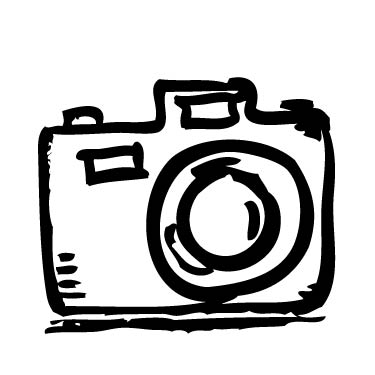
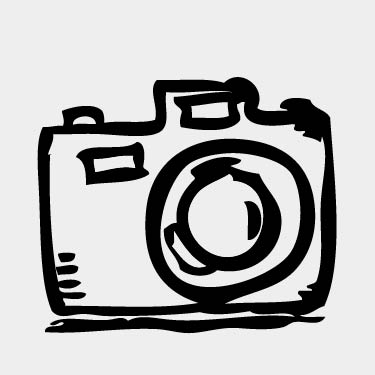
Various layout changes on index and photo/report pages

diff --git a/AmphibiansReptiles/index.html b/AmphibiansReptiles/index.html
@@ -62,20 +62,24 @@
 		
 		<div class="container"> <!-- Container for entire body other than navbar -->
 			
+			<br>
+			<br>
+			
+			<div class="hero-unit">
+				
 			<!-- Main hero unit -->
 			<section id="top">
 				<div class="row-fluid">
-					<br>
-					<div class="hero-unit" align="center">
+
 						<h1 align="center">The Herp Repository of Cyprus</h1>
-					</div>
+
 				</div>
 			</section>
 			<!-- END hero unit -->
 			
+			<hr>
 			
 			<!-- BEGIN row of columns -->
-			<br>
 			<section id="columns">
 				<div class="row-fluid">
 					<div class="span4" id="column1">
@@ -83,8 +87,8 @@
 							<h2>Educate Yourself</h2><br><br>
 						</div>
 						<div class="span12 neat" style="overflow: auto">
-							<img src="img/magnifyingLens.jpg" class="img-polaroid pull-right" width="140px" height="140px"/>
-							<p align="justify">Learn about the amphibians and reptiles of Cyprus! Whether you're a Cyprus 
+							<img src="img/magnifyingLens.jpg" class="img-polaroid1 pull-right" width="140px" height="140px"/>
+							<p align="left">Learn about the amphibians and reptiles of Cyprus! Whether you're a Cyprus 
 								resident or just visiting the island, a trained scientist or avid enthusiast: this is where 
 								you will find your answers!</p>
 						</div>
@@ -97,8 +101,8 @@
 							<h2>Submit A Photo<br><small><i>unknown species</i></small></h2>
 						</div>
 						<div class="span12 neat" style="overflow: auto">
-							<img src="img/picture.jpg" class="img-polaroid pull-right" width="140px" height="140px"/>
-							<p align="justify">If you photographed a frog, lizard, snake, or terrapin in nature, 
+							<img src="img/picture.jpg" class="img-polaroid1 pull-right" width="140px" height="140px"/>
+							<p align="left">If you photographed a frog, lizard, snake, or terrapin in nature, 
 								you can upload the photo here, together with information on where and when you took the photo. 
 								We will identify the species for you, and if requested, email you with information about the species identification.</p>
 						</div>
@@ -111,8 +115,8 @@
 							<h2 style="overflow-style: auto">Report A Sighting<br><small><i>known species</i></small></h2>
 						</div>
 						<div class="span12 neat" style="overflow: auto">
-							<img src="img/notebook.jpg" class="img-polaroid pull-right" width="140px" height="140px"/>
-							<p align="justify">If you identified a frog, lizard, snake, or terrapin that you observed in nature, 
+							<img src="img/notebook.jpg" class="img-polaroid1 pull-right" width="140px" height="140px"/>
+							<p align="left">If you identified a frog, lizard, snake, or terrapin that you observed in nature, 
 								you can submit your record here, together with information on where and when you made the observation.</p>
 						</div>
 						<div class="span12">
@@ -122,9 +126,9 @@
 				</div>
 			</section>
 			<!-- END row of columns -->
-			
+			</div>
+
 			<hr>
-			
 			<!-- BEGIN About Section -->
 			<section id="About">
 				<div class="row-fluid">
@@ -223,7 +227,7 @@
 					<h2 class="text-error">Contact</h2>
 						<div class="span10 offset1">
 							<p class="lead" align="justify">
-							Please email us under info at herprepository dot org</p>
+							Please email us under "info at herprepository dot org"!</p>
 						</div>
 				</div><p align="right"><small><a href="#top">back to top</a></small></p>
 			</section>

diff --git a/AmphibiansReptiles/scientificNameForm.html b/AmphibiansReptiles/scientificNameForm.html
@@ -69,16 +69,18 @@
 		</div> -->
 
 	    <div class="container">
+	    	<br><br>
+	    	<div class="hero-unit">
 	    	<div class="row-semifluid">
-	    		<br><br>
 		    	<p align="justify">
 		    		&#9658; Please provide us with as much information as possible about your observation.<br>
-		    		&#9658; If you took a photo, please submit it as well, even if you are 100% positive about the species identification.<br>
 		    		&#9658; Required fields are indicated with an asterisk (*).<br>
-		    		&#9658; To facilitate multiple submissions, many fields remember values from the previous submission.<br><br>
+		    		&#9658; To facilitate multiple submissions, many fields remember values from the previous submission.<br>
+		    		&#9658; Photographs provide evidence for your species identification, so if you took a photo, please submit it as well.<br>
 		    		&#9658; If you don't know the species but took a photo, please <a href="submitPhotoForm.html">Submit a Photo</a>!
 		    	</p>
 		    </div>
+		   </div>
 		    
 		    <hr>	
 	    <!-- User Info Form -->
@@ -228,7 +230,7 @@
 				<div class="controls">
 					<div class="fileupload fileupload-new" data-provides="fileupload">
 					  <div class="fileupload-new thumbnail" style="width: 200px; height: 150px;">
-					  	<img src="http://www.placehold.it/200x150/EFEFEF/AAAAAA&text=no+image"/>
+					  	<img src="img/picture2.jpg"/>
 					  </div>
 					  <div class="fileupload-preview fileupload-exists thumbnail" style="max-width: 200px; max-height: 150px; line-height: 20px;"></div>
 					  <div>

diff --git a/AmphibiansReptiles/submitPhotoForm.html b/AmphibiansReptiles/submitPhotoForm.html
@@ -65,14 +65,15 @@
 	    	
 	    	<br><br>
 	    	
+	    	<div class="hero-unit">
 	    	<div class="row-semifluid">
 		    	<p align="justify">
-		    		&#9658; Please provide us with as many information as possible about the animal you have photographed.<br>
+		    		&#9658; Please provide us with as much information as possible about the animal you have photographed.<br>
 		    		&#9658; Required fields are indicated with an asterisk (*).<br>
 		    		&#9658; If you already know the species' name, please <a href="scientificNameForm.html">Report a Sighting</a>!
 		    	</p>
 		    </div>
-		    
+		    </div>
 		    <hr>
 	
 	    
@@ -90,7 +91,7 @@
 					<div class="controls">
 						<div class="fileupload fileupload-new" data-provides="fileupload">
 			  				<div class="fileupload-new thumbnail" style="width: 200px; height: 150px;">
-			  					<img src="img/picture.jpg"/>
+			  					<img src="img/picture2.jpg"/>
 			  				</div>
 							<div class="fileupload-preview fileupload-exists thumbnail" style="max-width: 200px; max-height: 150px; line-height: 20px;"></div>
 							<div>

diff --git a/AmphibiansReptiles/css/bootstrap.css b/AmphibiansReptiles/css/bootstrap.css
@@ -1926,6 +1926,11 @@ a:hover {
           border-radius: 6px;
 }
 
+.img-polaroid1 {
+  padding: 4px;
+  background-color: #eeeeee;
+}
+
 .img-polaroid {
   padding: 4px;
   background-color: #fff;
